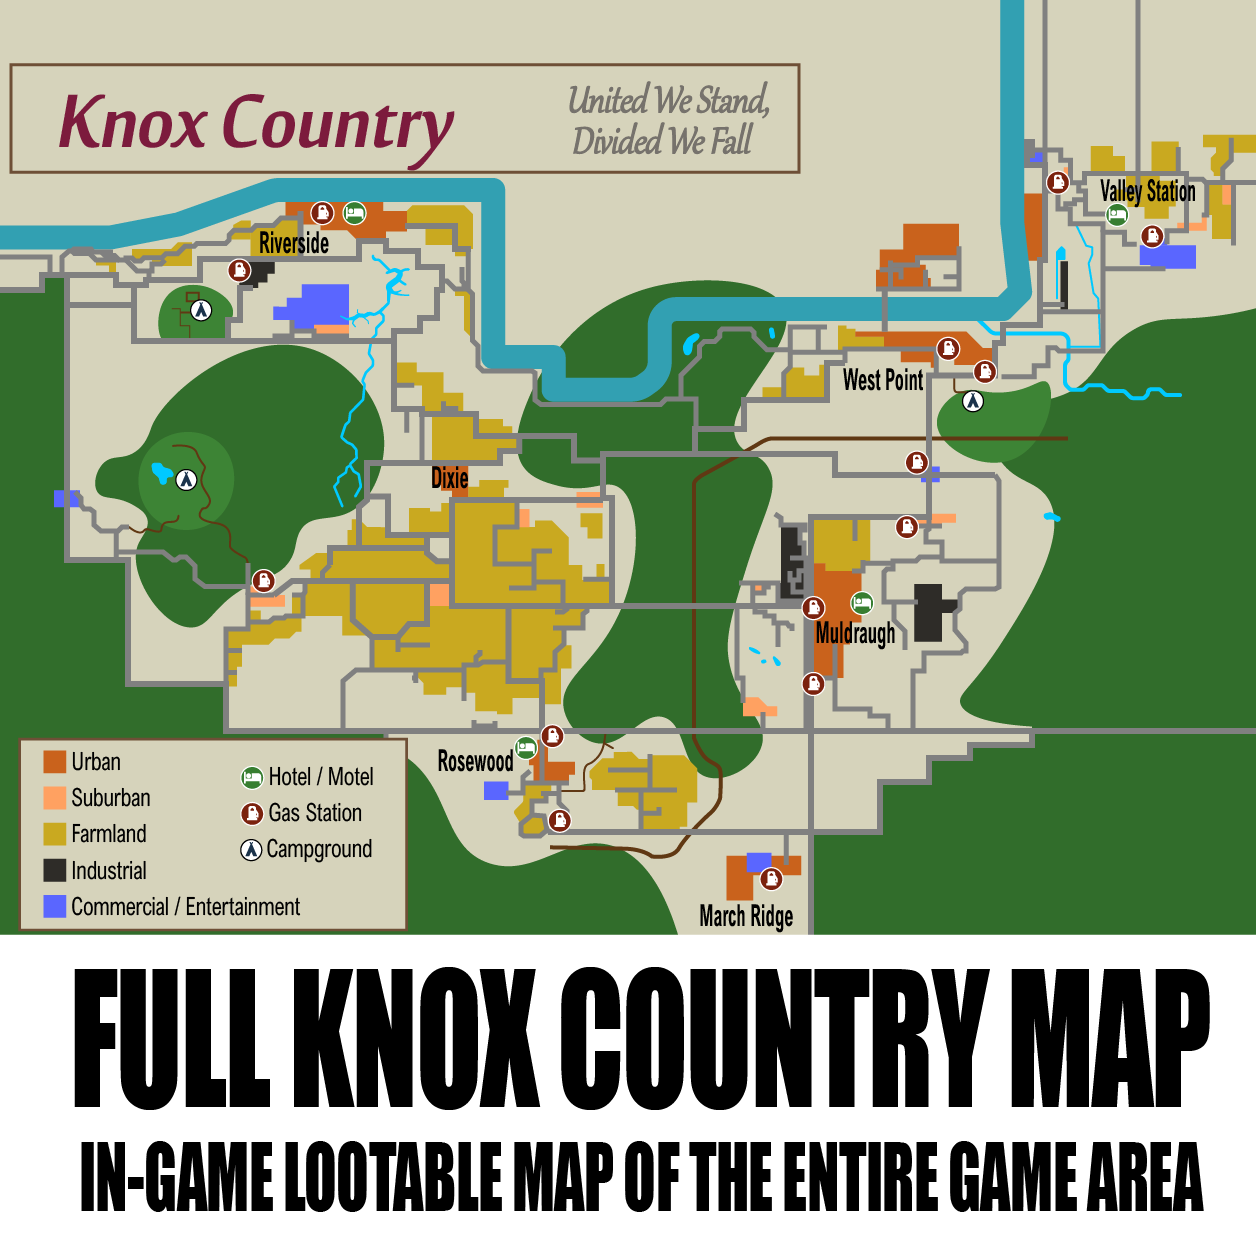
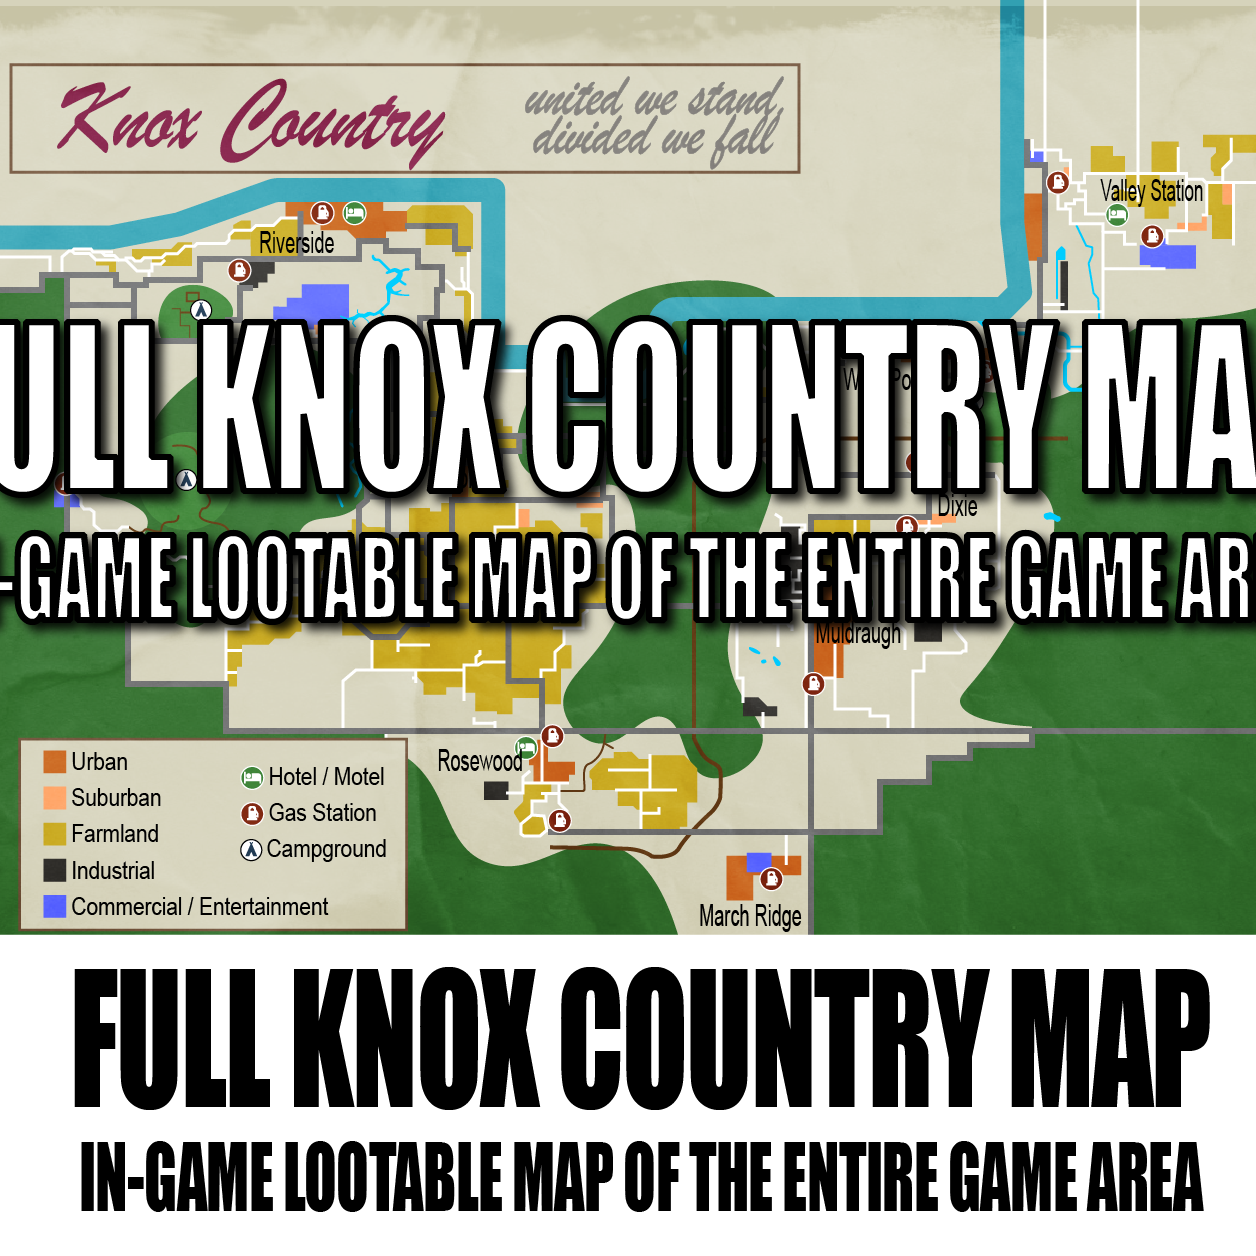
Exports posters for Knox Map

diff --git a/README.md b/README.md
@@ -7,9 +7,7 @@ The uploader prevents you from putting .git folders inside your mod folder so it
 
 ##TODO List
 ###Vanilla Food Fixes
-1. Add a way to preserve herbs by drying them
-1. Ensure somehow that rotten stuff can't be preserved. Might require an oncreate() lua function.
-1. Add rotten/preserved/burned graphics
+1. Mark public once it seems safe to
 
 ###Knox Country World Map
 1. Might be missing some turn-offs on highway north of Rosewood.
